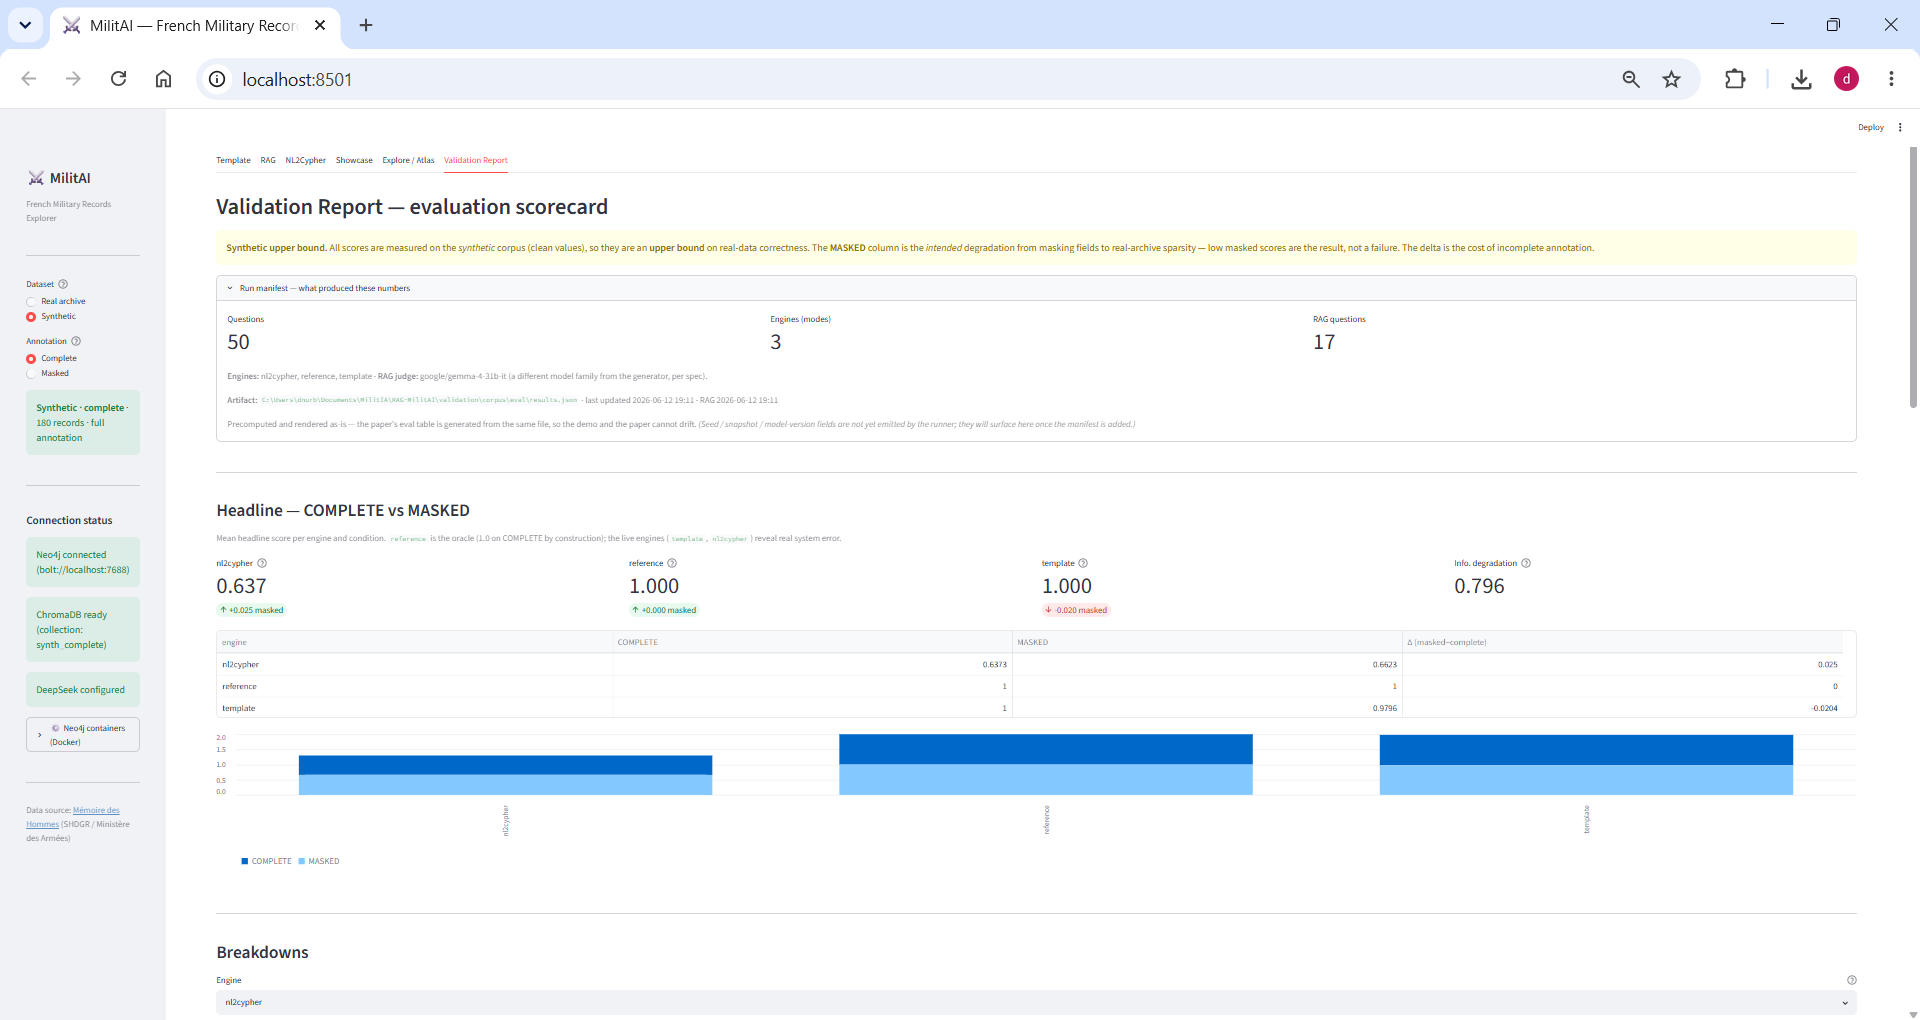
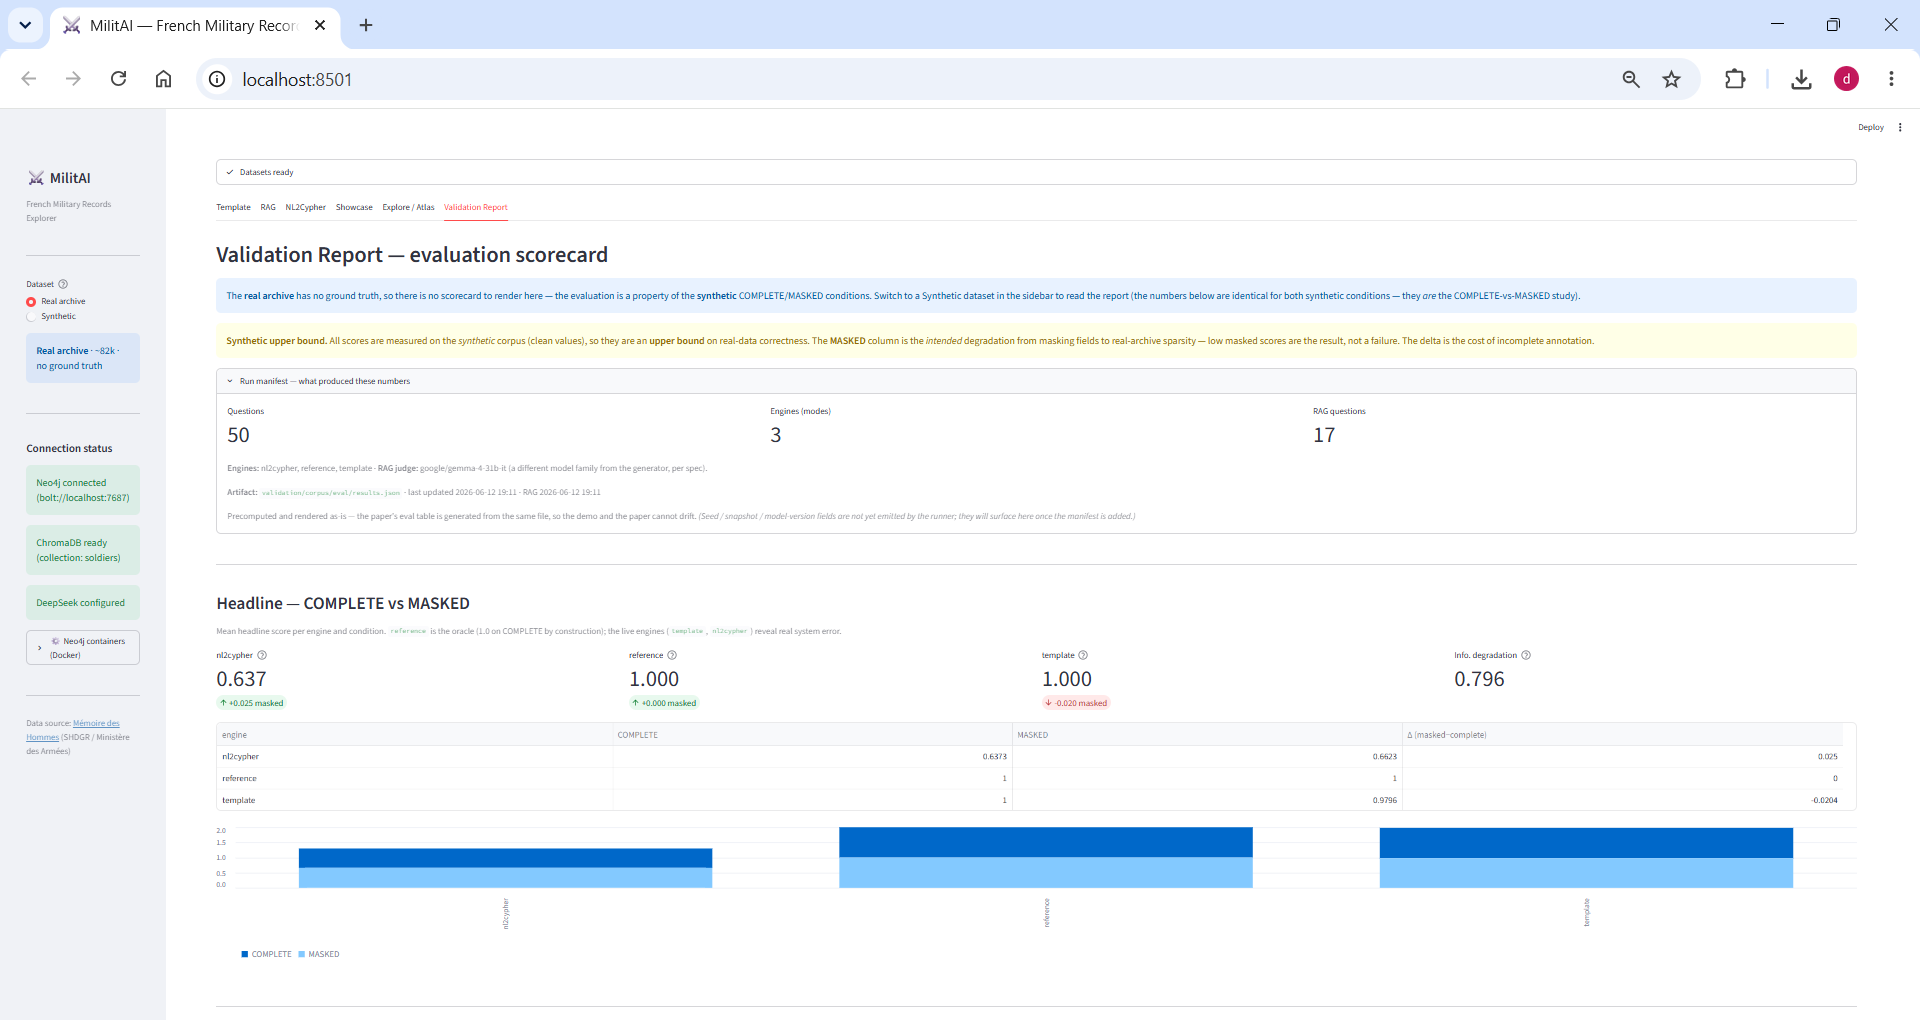
Fix/report relative path (#13)
* fix(report): show results path relative to project root

artifact_meta() exposed an absolute, machine-specific results_path. Render it relative to config.PROJECT_ROOT as a POSIX path so the Validation Report tab shows a portable location.

* docs: update validation report screenshot, add annotated register detail

diff --git a/app/report_loader.py b/app/report_loader.py
@@ -59,7 +59,9 @@ def artifact_meta() -> dict:
     """What can be derived about the run (no manifest is emitted yet, §3)."""
     meta: dict = {"available": RESULTS_PATH.exists()}
     if RESULTS_PATH.exists():
-        meta["results_path"] = str(RESULTS_PATH)
+        meta["results_path"] = RESULTS_PATH.relative_to(
+            config.PROJECT_ROOT
+        ).as_posix()
         meta["results_modified"] = datetime.fromtimestamp(
             RESULTS_PATH.stat().st_mtime
         ).strftime("%Y-%m-%d %H:%M")
